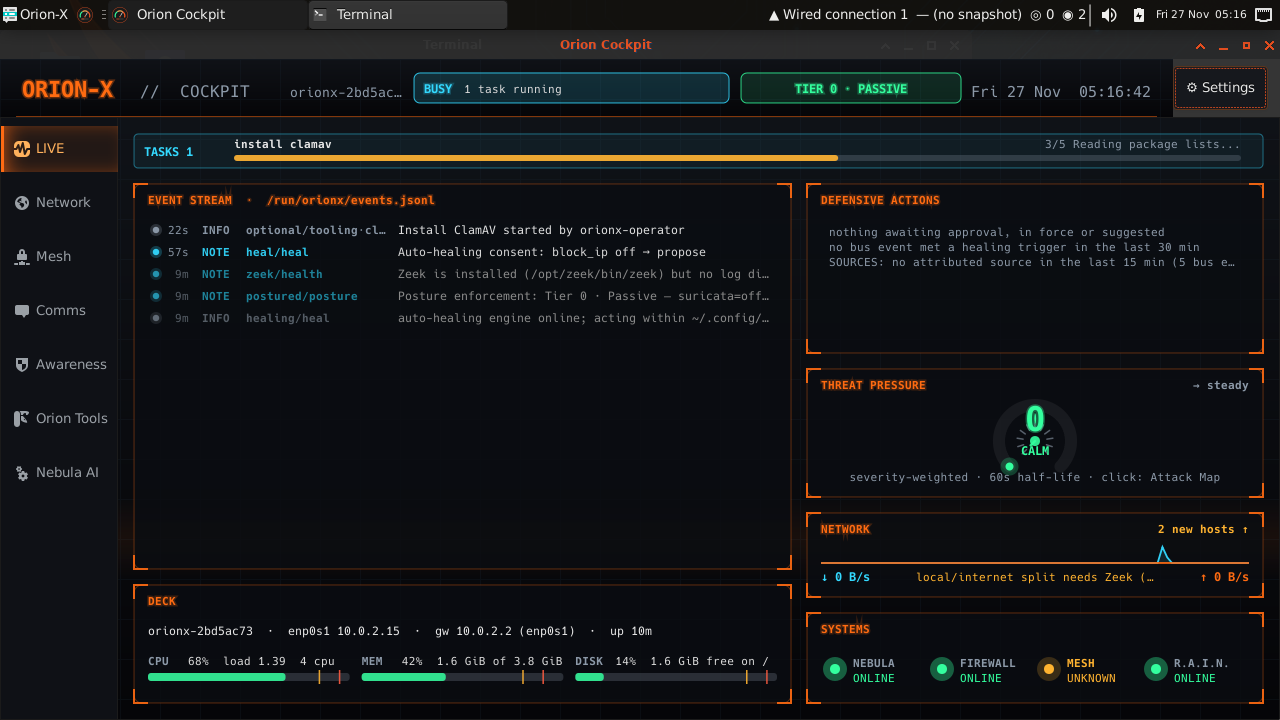
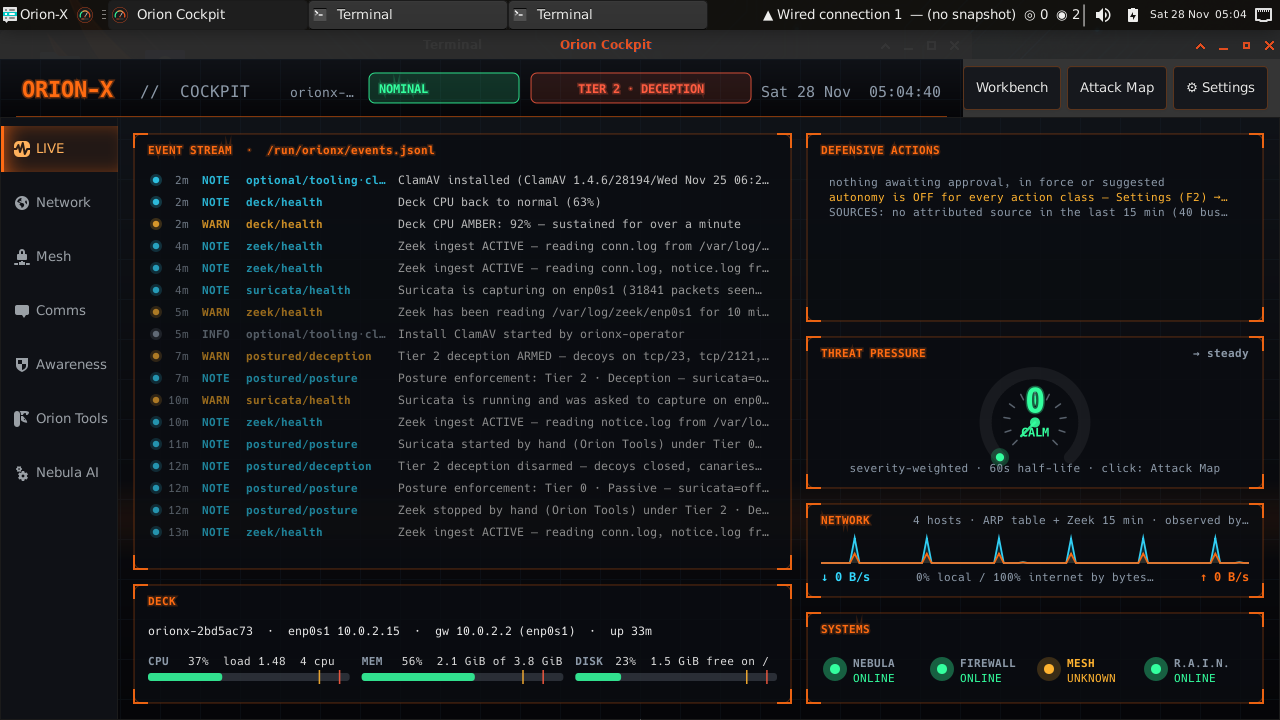
fix(postured,nebula,cockpit): config test in its own capped unit; nebula start survives a slow start; disabled buttons look disabled; new screenshots
Found by booting the release-branch ISO (CI run 46104893241) in QEMU:

- DEC-PHASE13-072, revised: with -l pointed at a writable directory the
  Suricata config test loaded the 3,200 shipped rules, peaked at 124.3 MB
  against orionx-postured's MemoryMax=128M, and the cgroup OOM killer put
  the daemon in a restart loop (10 kills, "Posture enforcement" re-announced
  every ~50 s). The test now runs as `systemd-run --wait --pipe` in a
  transient unit capped at suricata.service's MemoryMax, logging to a
  RuntimeDirectory. Verified in the VM with the patched module: Tier 2 runs
  both sensors, 200 s on a quiet link keeps them, Zeek Stop/Follow tier and
  Suricata Start at Tier 0 work, NRestarts=0, no OOM kill, no rejection.
- `nebula start`: a 120 s systemctl limit raised TimeoutExpired while the
  model integrity check ran (4 min 22 s CPU under QEMU). 300 s now, and a
  timeout is reported as "still starting".
- The page-wide label colour beat button.orionx-tool:disabled for the label
  inside a button, so disabled buttons looked live on every tab. Sensors and
  services now offer only the switch that applies.
- Screenshots retaken on that image: cockpit-live, cockpit-tools, the new
  cockpit-tools-deck, cockpit-settings; captions say exactly which build.

Tests: test_sensor_control.py 23, test_nebula_runtime_timeout.py 2 (new);
pytest 582 passed, 1 skipped; bash unit suites 103/103; GTK checks 142/142;
make lint 0; decision log OK.
[…]

diff --git a/scripts/awareness/suricata_capture.py b/scripts/awareness/suricata_capture.py
@@ -151,6 +151,7 @@ ENGINE_LOG_TAIL = 65536
 ENGINE_BANNER = "This is Suricata version"
 
 SURICATA_BIN = "suricata"
+SURICATA_UNIT_NAME = "suricata.service"
 SURICATASC_BIN = "suricatasc"
 
 # --- Thresholds (justified in the module docstring) -------------------------
@@ -595,36 +596,83 @@ def classify_config_test(returncode: int | None, output: str) -> dict:
     return {"verdict": "invalid", "error": tail[0], "rc": returncode}
 
 
+TEST_RUNTIME_DIR = "orionx-suricata-test"   # under /run, made and removed by systemd
+DEFAULT_TEST_MEMORY_MAX = "768M"            # fallback only; suricata.service's own cap is the authority
+
+
+def engine_memory_max(run=subprocess.run) -> str:
+    """suricata.service's MemoryMax (orionx-memory.conf), so the test is capped like the engine."""
+    try:
+        r = run(["systemctl", "show", SURICATA_UNIT_NAME, "-p", "MemoryMax", "--value"],
+                capture_output=True, text=True, timeout=10, check=False)
+        v = (r.stdout or "").strip()
+        return v if v and v != "infinity" else DEFAULT_TEST_MEMORY_MAX
+    except (OSError, subprocess.SubprocessError):
+        return DEFAULT_TEST_MEMORY_MAX
+
+
+def config_test_argv(binary: str, config: Path, isolate: bool, log_dir: str | None,
+                     memory_max: str = DEFAULT_TEST_MEMORY_MAX) -> list[str]:
+    """The command that runs `suricata -T`. Pure.
+
+    isolate=True (the daemon on a deck): a transient systemd unit, outside
+    orionx-postured's cgroup and mount namespace, capped like the engine.
+    """
+    if isolate:
+        return ["systemd-run", "--quiet", "--wait", "--pipe", "--collect",
+                "-p", f"MemoryMax={memory_max}", "-p", f"RuntimeDirectory={TEST_RUNTIME_DIR}",
+                binary, "-T", "-v", "-c", str(config), "-l", f"/run/{TEST_RUNTIME_DIR}"]
+    return [binary, "-T", "-v", "-c", str(config), "-l", str(log_dir)]
+
+
 def check_config(config: Path = ORIONX_YAML, runner=subprocess.run,
-                binary: str = SURICATA_BIN, log_dir: str | None = None) -> dict:
-    """Run `suricata -T -v -l <private dir>` against a config and classify it.
+                 binary: str = SURICATA_BIN, log_dir: str | None = None,
+                 isolate: bool | None = None) -> dict:
+    """Run `suricata -T -v -l <scratch>` against a config and classify it.
 
     @decision DEC-PHASE13-072
-    @title The config test writes its logs to a private directory
+    @title The config test runs in its own transient unit, capped like the engine
     @status accepted
-    @rationale orionx-postured runs this test inside its own sandbox
-      (ProtectSystem=strict; /var/log is read-only there). Without -l the
-      test inherits default-log-dir /var/log/suricata/ and fails with
-      'The logging directory ... is not writable', so every tier raise
-      published a CRITICAL "Suricata REJECTED its configuration" and held the
-      start back until the 30 s recovery started it anyway (measured on the
-      v3.2.0 image in QEMU, 2026-11-27). The real service runs outside the
-      sandbox and writes /var/log/suricata itself; the test only needs
-      somewhere to write. -l points it at a fresh directory under the
-      daemon's PrivateTmp, removed afterwards.
+    @rationale orionx-postured ran `suricata -T` inside its own sandbox. Two
+      failures, both measured on the v3.2.0 image in QEMU (2026-11-27):
+      (1) /var/log is read-only there, so the test failed with 'The logging
+      directory ... is not writable' and every tier raise published a CRITICAL
+      "Suricata REJECTED its configuration" and held the start back ~30 s;
+      (2) with -l pointed at a writable directory, the test got far enough to
+      load the 3,200 shipped rules, peaked at 124.3 MB (systemd-run's own
+      "Memory peak") against the daemon's MemoryMax=128M, and the kernel's
+      cgroup OOM killer took the daemon down, which then restart-looped. That
+      test had never actually run on a deck; failing at the log directory
+      had hidden it. Raising the daemon's cap would only move the cliff: the
+      full ET-Open feed (orionx-freshen-suricata) needs several times more.
+      So the test runs as `systemd-run --wait --pipe` in a transient unit of
+      its own, capped at suricata.service's MemoryMax (the engine's own
+      authority, orionx-memory.conf) and writing its logs to a RuntimeDirectory
+      systemd creates and removes. orionx-postured already drives systemd
+      over D-Bus to start the engine; this is the same channel. When not root
+      or systemd-run is absent (tests, a checkout), it runs directly with a
+      private scratch directory.
     """
-    own = log_dir is None
+    if isolate is None:
+        isolate = os.geteuid() == 0 and shutil.which("systemd-run") is not None
+    if isolate and shutil.which(binary) is None:
+        # Inside the transient unit a missing engine would read as a rejected
+        # config; say what it is.
+        return {"verdict": "absent", "error": f"{binary} is not installed", "rc": None}
+    own = not isolate and log_dir is None
     if own:
         try:
             log_dir = tempfile.mkdtemp(prefix="orionx-suricata-test-")
         except OSError as exc:
             return {"verdict": "unknown", "error": f"no scratch log dir: {exc}", "rc": None}
+    argv = config_test_argv(binary, config, isolate, log_dir,
+                            engine_memory_max(runner) if isolate else DEFAULT_TEST_MEMORY_MAX)
     try:
         try:
-            res = runner([binary, "-T", "-v", "-c", str(config), "-l", str(log_dir)],
-                         capture_output=True, text=True, timeout=120, check=False)
+            res = runner(argv, capture_output=True, text=True, timeout=180, check=False,
+                         stdin=subprocess.DEVNULL)
         except FileNotFoundError:
-            return {"verdict": "absent", "error": f"{binary} is not installed",
+            return {"verdict": "absent", "error": f"{argv[0]} is not installed",
                     "rc": None}
         except (OSError, subprocess.SubprocessError) as exc:
             return {"verdict": "unknown", "error": str(exc), "rc": None}

diff --git a/tests/unit/test_sensor_control.py b/tests/unit/test_sensor_control.py
@@ -41,11 +41,44 @@ def test_config_test_writes_logs_to_a_private_dir_and_removes_it():
         seen["dir_existed"] = os.path.isdir(argv[argv.index("-l") + 1])
         return R()
 
-    v = capture.check_config(Path("/etc/suricata/orionx.yaml"), runner=runner, binary="suricata")
+    v = capture.check_config(Path("/etc/suricata/orionx.yaml"), runner=runner, binary="suricata", isolate=False)
     assert v["verdict"] == "ok"
     assert seen["argv"][:5] == ["suricata", "-T", "-v", "-c", "/etc/suricata/orionx.yaml"]
     assert "-l" in seen["argv"] and seen["dir_existed"]
     assert not os.path.exists(seen["argv"][seen["argv"].index("-l") + 1]), "scratch log dir left behind"
+
+
+def test_on_a_deck_the_config_test_runs_in_its_own_capped_unit():
+    argv = capture.config_test_argv("suricata", Path("/etc/suricata/orionx.yaml"), True, None, "805306368")
+    assert argv[:5] == ["systemd-run", "--quiet", "--wait", "--pipe", "--collect"]
+    assert "MemoryMax=805306368" in argv and "RuntimeDirectory=orionx-suricata-test" in argv
+    assert argv[-2:] == ["-l", "/run/orionx-suricata-test"], "logs go where the unit can write, not the daemon's /var/log"
+
+
+def test_isolated_test_takes_the_engine_memory_cap_and_reports_its_verdict(monkeypatch):
+    calls = []
+
+    class R:
+        def __init__(self, rc, out):
+            self.returncode, self.stdout, self.stderr = rc, out, ""
+
+    def runner(argv, **_kw):
+        calls.append(argv)
+        if argv[0] == "systemctl":
+            return R(0, "805306368\n")
+        return R(0, "Configuration provided was successfully loaded.")
+
+    monkeypatch.setattr(capture.shutil, "which", lambda name: "/usr/bin/" + name)
+    v = capture.check_config(Path("/etc/suricata/orionx.yaml"), runner=runner, binary="suricata", isolate=True)
+    assert v["verdict"] == "ok"
+    assert calls[0][:3] == ["systemctl", "show", "suricata.service"]
+    assert "MemoryMax=805306368" in calls[1]
+
+
+def test_isolated_test_with_no_engine_is_absent_not_rejected(monkeypatch):
+    monkeypatch.setattr(capture.shutil, "which", lambda name: None)
+    v = capture.check_config(Path("x.yaml"), runner=lambda *a, **k: 1 / 0, binary="suricata", isolate=True)
+    assert v["verdict"] == "absent"
 
 
 def test_config_test_keeps_a_caller_supplied_log_dir(tmp_path):
@@ -54,7 +87,7 @@ def test_config_test_keeps_a_caller_supplied_log_dir(tmp_path):
         stdout = "successfully loaded"
         stderr = ""
 
-    capture.check_config(Path("x.yaml"), runner=lambda argv, **_k: R(), binary="suricata", log_dir=str(tmp_path))
+    capture.check_config(Path("x.yaml"), runner=lambda argv, **_k: R(), binary="suricata", log_dir=str(tmp_path), isolate=False)
     assert tmp_path.is_dir()
 
 

diff --git a/scripts/control_center/sections/ir.py b/scripts/control_center/sections/ir.py
@@ -333,8 +333,13 @@ def build_section() -> Gtk.Widget:
         frame, gb = TL.group("Sensors", f"{sum(1 for n in PD.SENSOR_NAMES if PD.sensor_view(n, d['status'], d['now'], d['overrides'])['word'] == 'RUNNING')} of 2 running")
         for n in PD.SENSOR_NAMES:
             v = PD.sensor_view(n, d["status"], d["now"], d["overrides"])
-            btns = [("Start", lambda n=n: _sensor(n, True), v["start"], f"Run {v['label']} now, whatever the tier"),
-                    ("Stop", lambda n=n: _sensor(n, False), v["stop"], f"Stop {v['label']} now, whatever the tier")]
+            # A switch, not a pair: only the action that applies is offered
+            # (both when the state is UNKNOWN, so the operator is never stuck).
+            btns = []
+            if v["start"]:
+                btns.append(("Start", lambda n=n: _sensor(n, True), True, f"Run {v['label']} now, whatever the tier"))
+            if v["stop"]:
+                btns.append(("Stop", lambda n=n: _sensor(n, False), True, f"Stop {v['label']} now, whatever the tier"))
             if v["follow"]:
                 btns.append(("Follow tier", lambda n=n: _sensor(n, None), True,
                              f"Let the threat-posture tier decide {v['label']} again"))
@@ -346,9 +351,12 @@ def build_section() -> Gtk.Widget:
         for kind, label in (("nebula", "Nebula AI runtime"), ("workbench", "Workbench server")):
             v = service_tile(kind, d)
             start_label = "Open" if kind == "workbench" else "Start"
-            row, _w = TL.tile(label, v["word"], TL.LEVEL_COLOR[v["level"]], v["line"],
-                              [(start_label, lambda k=kind: _service(k, True), v["start"], ""),
-                               ("Stop", lambda k=kind: _service(k, False), v["stop"], "")], tooltip=v["line"])
+            btns = []
+            if v["start"]:
+                btns.append((start_label, lambda k=kind: _service(k, True), True, ""))
+            if v["stop"]:
+                btns.append(("Stop", lambda k=kind: _service(k, False), True, ""))
+            row, _w = TL.tile(label, v["word"], TL.LEVEL_COLOR[v["level"]], v["line"], btns, tooltip=v["line"])
             gb.pack_start(row, False, False, 0)
         svc_flow.add(frame)
         svc_flow.show_all()

diff --git a/scripts/nebula/runtime_ctl.py b/scripts/nebula/runtime_ctl.py
@@ -48,9 +48,21 @@ Runner = Callable[[list[str]], "subprocess.CompletedProcess[str]"]
 Http = Callable[[str, str, "dict[str, Any] | None", float], "dict[str, Any]"]
 
 
+SYSTEMCTL_TIMEOUT = 300   # nebula-runtime first runs the model integrity check (hashes ~2 GB)
+
+
 def run(argv: list[str]) -> "subprocess.CompletedProcess[str]":
-    """Default runner: capture output, never raise on a non-zero exit."""
-    return subprocess.run(argv, capture_output=True, text=True, check=False, timeout=120)
+    """Default runner: capture output, never raise — not on a non-zero exit,
+    and not on a timeout either (rc 124, like timeout(1)).
+
+    Measured on the v3.2.0 image in QEMU: `systemctl start nebula-runtime`
+    waits for nebula-integrity-check, which took over 120 s under emulation,
+    and the old 120 s limit ended `nebula start` in a TimeoutExpired traceback.
+    """
+    try:
+        return subprocess.run(argv, capture_output=True, text=True, check=False, timeout=SYSTEMCTL_TIMEOUT)
+    except subprocess.TimeoutExpired:
+        return subprocess.CompletedProcess(argv, 124, "", f"still waiting after {SYSTEMCTL_TIMEOUT} s")
 
 
 def http_json(method: str, url: str, body: dict[str, Any] | None = None,
@@ -150,6 +162,10 @@ def start(runner: Runner = run, say: Callable[[str], None] = print) -> int:
         say(f"Nebula is already running ({RUNTIME_UNIT}).")
         return 0
     r = runner(["systemctl", "start", RUNTIME_UNIT])
+    if r.returncode == 124:
+        say(f"{RUNTIME_UNIT} is still starting after {SYSTEMCTL_TIMEOUT} s (the model integrity "
+            f"check runs first). Check again with: nebula status, or systemctl status {RUNTIME_UNIT}")
+        return 1
     if r.returncode != 0 or not unit_active(RUNTIME_UNIT, runner):
         detail = (r.stderr or r.stdout or "").strip()
         say(f"FAILED to start {RUNTIME_UNIT}" + (f": {detail}" if detail else "")

diff --git a/tests/unit/test_nebula_runtime_timeout.py b/tests/unit/test_nebula_runtime_timeout.py
@@ -1,0 +1,32 @@
+"""`nebula start` when the runtime takes longer than the systemctl limit.
+
+Measured on the v3.2.0 image in QEMU (2026-11-27): nebula-runtime waits for
+nebula-integrity-check, which hashed the model for over 120 s, and `nebula
+start` died with a TimeoutExpired traceback.
+"""
+import subprocess
+import sys
+from pathlib import Path
+
+sys.path.insert(0, str(Path(__file__).resolve().parents[2] / "scripts"))
+from nebula import runtime_ctl as R  # noqa: E402
+
+
+def test_run_turns_a_timeout_into_rc_124(monkeypatch):
+    def slow(argv, **kw):
+        raise subprocess.TimeoutExpired(argv, kw.get("timeout"))
+    monkeypatch.setattr(R.subprocess, "run", slow)
+    r = R.run(["systemctl", "start", R.RUNTIME_UNIT])
+    assert r.returncode == 124 and "still waiting" in r.stderr
+
+
+def test_start_that_is_still_starting_says_so_without_a_traceback():
+    said = []
+
+    def runner(argv):
+        if argv[1] == "is-active":
+            return subprocess.CompletedProcess(argv, 3, "activating\n", "")
+        return subprocess.CompletedProcess(argv, 124, "", "still waiting after 300 s")
+
+    assert R.start(runner=runner, say=said.append) == 1
+    assert "still starting" in said[-1] and "integrity" in said[-1] and "nebula status" in said[-1]

diff --git a/scripts/control_center/app.py b/scripts/control_center/app.py
@@ -131,6 +131,10 @@ button.orionx-tool:hover {
     box-shadow: 0 0 10px rgba(255,106,19,0.5), inset 0 0 6px rgba(255,106,19,0.15);
 }
 button.orionx-tool:disabled { color: #5b6470; border-color: rgba(140,153,168,0.18); background: rgba(14,16,20,0.80); }
+/* The page-wide label colour (.orionx-page label) out-ranked the line above for
+   the label INSIDE a button, so a disabled button looked live on every tab
+   (seen on the v3.2.0 image: Zeek's disabled Uninstall). */
+.orionx-page button.orionx-tool:disabled label { color: #5b6470; }
 /* --- optional tools: the live installer log (#199) --- */
 textview.orionx-log, textview.orionx-log text { background-color: #07090c; color: #9fb0c0; }
 /* --- toasts --- */

diff --git a/MASTER_PLAN.md b/MASTER_PLAN.md
@@ -5128,7 +5128,7 @@ decision, edit the block, then regenerate; never edit a generated row.
 | DEC-PHASE13-069 | 2026-11-26 | [ISO] Idle RAM is read once the desktop has finished starting and RAM has stopped growing In-guest performance measurement via serial-console sentinels (W7-5) (status: accepted accepted) | The fixed 20 s settle after xfce4-session appeared read RAM at a moment set by the runner's speed. On 2026-11-27 the same code measured 731 MB (#216: sampled ~64 s after the session started; the panel's plugin processes, wrapper-2.0, not yet running; nm-applet 32 MB, xfdesktop 34 MB) and 1,084 / 1,145 MB (#215 / #217: ~105 / ~218 s after; two wrapper-2.0 at ~100-110 MB each, nm-applet 117-153 MB, xfdesktop 123-131 MB). Those three account for the ~350 MB AnonPages difference (424 vs 768-800 MB). The low readings were of a half-started desktop, so the earlier passes were false. The probe now waits for the processes an idle desktop runs (DESKTOP_PROCS) and then for two readings STABLE_STEP apart to agree within STABLE_KB, and reports both conditions; the host test refuses to judge a reading taken without them. With an honest reading the budget was raised to 1.25 GiB (owner decision, 2026-11-27; host test holds it; bringing it back under 1 GiB is #218). Boot time, idle RAM, and ISO size are the three acceptance criteria for Phase 7's performance goal. boot_time_seconds uses systemd-analyze (canonical source — it measures kernel+userspace time from the kernel's own timestamps, not host wall-clock, so QEMU firmware overhead is excluded). idle_ram_bytes uses /proc/meminfo MemAvailable (kernel-reported available RAM, the correct "idle RAM consumption" signal — MemTotal minus MemAvailable = RAM consumed by the OS at rest). iso_size_bytes is measured host-side (the ISO file is on the host filesystem, not visible inside the guest). Serial console reuse follows DEC-PHASE7-035 — same channel, same host harness, no new side-channels. Per-assertion timeout wraps prevent any single stall from hanging the overall measurement block past the service's WatchdogSec or the host's QEMU timeout. Amended 2026-11-26 by DEC-PHASE13-067: systemd-analyze never answered from inside the boot transaction, so boot time is now the desktop session's start (user@UID.service), with multi-user.target reported alongside; the thresholds moved to the host-side test alone. |
 | DEC-PHASE13-070 | 2026-11-27 | [NEBULA] `nebula stop` unloads the model, then stops the runtime with plain systemctl | Owner request from the v3.2.0 deck test: "allow it to be stopped with 'nebula stop'". The CLI had no way to give the model's RAM back; the only path was `sudo systemctl stop nebula-runtime.service`, which the operator has to know. Two steps, in this order: 1. Unload every loaded model through the loopback API (GET /api/ps, then POST /api/generate with keep_alive 0 per model). This frees the model's RAM even if step 2 is refused, and it lets ollama release the model cleanly rather than having it killed mid-load. 2. `systemctl stop nebula-warmup.service nebula-runtime.service`. Plain systemctl, deliberately no sudo or pkexec in the CLI: systemd asks polkit itself (org.freedesktop.systemd1.manage-units), with a terminal agent when there is a TTY, so the CLI adds no privilege path of its own. nebula-warmup is stopped too because it is RemainAfterExit and Requires= the runtime; leaving it "active" would claim a warm model that is gone. Nothing restarts the runtime behind the operator's back: no healing rule watches nebula-runtime.service (scripts/healing), and Restart=on-failure does not fire on a clean stop. `nebula start` starts the runtime only; the warm-up stays opt-in (`nebula warmup`, DEC-PHASE10-010). Stdlib only and every effect injectable, so tests/unit/test_nebula_runtime_ctl.sh runs without ollama or systemd (DEC-PHASE10-008's lazy-import rule: the dispatcher imports this module only for these two subcommands). |
 | DEC-PHASE13-071 | 2026-11-27 | [DETECTION] An interface the kernel reports UP is captured whether or not it is busy | Narrows DEC-PHASE12-038's liveness rule. Capture used to need >= 5 packets in 30 s. On the deck at Tier 2 neither sensor ran, and on the v3.2.0 image in QEMU (2026-11-27) a running Suricata was stopped the moment its link went quiet and restarted when traffic came back: the sensor was absent exactly when the first packets of a scan would arrive. The empty-interface failure that rule guards against (Suricata exits 1 with no af-packet entry) does not apply to an UP interface, which af-packet opens fine whether or not it is busy. So operstate "up" joins the selected set immediately and stays while it is up; the packet rate still decides for interfaces without a meaningful operstate (WireGuard, tun: "unknown") and still ranks interfaces when the cap bites, live ones first. A vanished interface is still dropped at once (one unopenable device fails the whole engine). """ return {n for n in list_interfaces(root) if is_up(n, root)} |
-| DEC-PHASE13-072 | 2026-11-27 | [DETECTION] The config test writes its logs to a private directory | orionx-postured runs this test inside its own sandbox (ProtectSystem=strict; /var/log is read-only there). Without -l the test inherits default-log-dir /var/log/suricata/ and fails with 'The logging directory ... is not writable', so every tier raise published a CRITICAL "Suricata REJECTED its configuration" and held the start back until the 30 s recovery started it anyway (measured on the v3.2.0 image in QEMU, 2026-11-27). The real service runs outside the sandbox and writes /var/log/suricata itself; the test only needs somewhere to write. -l points it at a fresh directory under the daemon's PrivateTmp, removed afterwards. """ own = log_dir is None if own: try: log_dir = tempfile.mkdtemp(prefix="orionx-suricata-test-") except OSError as exc: return {"verdict": "unknown", "error": f"no scratch log dir: {exc}", "rc": None} try: try: res = runner([binary, "-T", "-v", "-c", str(config), "-l", str(log_dir)], capture_output=True, text=True, timeout=120, check=False) except FileNotFoundError: return {"verdict": "absent", "error": f"{binary} is not installed", "rc": None} except (OSError, subprocess.SubprocessError) as exc: return {"verdict": "unknown", "error": str(exc), "rc": None} return classify_config_test(res.returncode, (res.stdout or "") + (res.stderr or "")) finally: if own: shutil.rmtree(str(log_dir), ignore_errors=True) |
+| DEC-PHASE13-072 | 2026-11-27 | [DETECTION] The config test runs in its own transient unit, capped like the engine | orionx-postured ran `suricata -T` inside its own sandbox. Two failures, both measured on the v3.2.0 image in QEMU (2026-11-27): (1) /var/log is read-only there, so the test failed with 'The logging directory ... is not writable' and every tier raise published a CRITICAL "Suricata REJECTED its configuration" and held the start back ~30 s; (2) with -l pointed at a writable directory, the test got far enough to load the 3,200 shipped rules, peaked at 124.3 MB (systemd-run's own "Memory peak") against the daemon's MemoryMax=128M, and the kernel's cgroup OOM killer took the daemon down, which then restart-looped. That test had never actually run on a deck; failing at the log directory had hidden it. Raising the daemon's cap would only move the cliff: the full ET-Open feed (orionx-freshen-suricata) needs several times more. So the test runs as `systemd-run --wait --pipe` in a transient unit of its own, capped at suricata.service's MemoryMax (the engine's own authority, orionx-memory.conf) and writing its logs to a RuntimeDirectory systemd creates and removes. orionx-postured already drives systemd over D-Bus to start the engine; this is the same channel. When not root or systemd-run is absent (tests, a checkout), it runs directly with a private scratch directory. """ if isolate is None: isolate = os.geteuid() == 0 and shutil.which("systemd-run") is not None if isolate and shutil.which(binary) is None: # Inside the transient unit a missing engine would read as a rejected # config; say what it is. return {"verdict": "absent", "error": f"{binary} is not installed", "rc": None} own = not isolate and log_dir is None if own: try: log_dir = tempfile.mkdtemp(prefix="orionx-suricata-test-") except OSError as exc: return {"verdict": "unknown", "error": f"no scratch log dir: {exc}", "rc": None} argv = config_test_argv(binary, config, isolate, log_dir, engine_memory_max(runner) if isolate else DEFAULT_TEST_MEMORY_MAX) try: try: res = runner(argv, capture_output=True, text=True, timeout=180, check=False, stdin=subprocess.DEVNULL) except FileNotFoundError: return {"verdict": "absent", "error": f"{argv[0]} is not installed", "rc": None} except (OSError, subprocess.SubprocessError) as exc: return {"verdict": "unknown", "error": str(exc), "rc": None} return classify_config_test(res.returncode, (res.stdout or "") + (res.stderr or "")) finally: if own: shutil.rmtree(str(log_dir), ignore_errors=True) |
 | DEC-PHASE13-073 | 2026-11-27 | [DETECTION] Manual sensor start/stop is an override the posture daemon applies | John (2026-11-27): Zeek and Suricata need start/stop buttons in Orion Tools. Starting them with systemctl from the Cockpit would make a second authority: this daemon reasserts its plan every 30 s and would stop a sensor the operator started (or restart one they stopped). So the buttons write a request, ~/.config/orionx/sensors, and this daemon folds it into tier_plan(): an override wins over the tier for that one sensor, everything else (gate file, interface set, recovery budget, verification) is unchanged. A deliberate tier change clears the file (posture_data.request_tier), so "Tier 2" always starts from what Tier 2 means. Format: one `name=on\|off` per line; anything else is ignored, and an unreadable or untrusted file means no overrides — the tier decides, as it did before this existed. """ out: dict[str, bool] = {} for line in (text or "").splitlines(): name, sep, val = line.strip().partition("=") name, val = name.strip(), val.strip().lower() if sep and name in SENSOR_NAMES and val in ("on", "off"): out[name] = val == "on" return out |
 | DEC-PHASE13-074 | 2026-11-27 | [COCKPIT] Every list on Orion Tools is the same tile: status light, name, status word, one detail line, and the buttons that change that status | John (2026-11-27): Guided actions and On this deck should look like Optional tools, and every tool should show a status and the switches that apply to it (install/uninstall and/or start/stop). The optional-tools tile was the one design already proven on the deck (#199), so it moved here and every group on the tab is drawn by these three functions; a second copy of the tile in another section would drift from the first the next time either changed. Words and colours stay with each section's pure view helper (optional_view, posture_data.sensor_view, tools_data); this module only draws. |
 | DEC-PHASE13-075 | 2026-11-27 | [COCKPIT] A service stopped on purpose is shown STOPPED, not DOWN | With `nebula stop` and the Orion Tools start/stop switches (DEC-PHASE13-070/073), stopping Nebula is an operator action. LIVE and Awareness drew it red "DOWN", the same as a crash, which teaches the operator to ignore red. systemd already tells the two apart: a clean stop leaves the unit "inactive", a crash leaves it "failed". Only "failed" (or anything else unexpected) is red. """ if state == "active": return True return "stopped" if state == "inactive" else False |

diff --git a/docs/User_Guide.md b/docs/User_Guide.md
@@ -436,7 +436,7 @@ What used to be the separate Control Center window now lives inside the Orion Co
 
 ![Cockpit Settings drawer](images/cockpit-settings.png)
 
-*Figure: the Settings drawer (F2) over the Orion Tools tab: threat posture (Tier 0 confirmed as enforced by `orionx-postured`) and the Engine group, with `block_ip` just set to *propose*. Nebula warm-up and the R.A.I.N., Display and DJ deck groups are further down the drawer. From the v3.2.0 development image (CI run 45936482841, the tree now on `develop` at `e33ccbd`) booted in QEMU at 1280×720, 2026-11-27.*
+*Figure: the Settings drawer (F2) over the Orion Tools tab: threat posture confirmed as **Tier 2 · Deception enforced by orionx-postured — deception armed**, and the Engine group with every action class off. Behind it, the Guided actions and On this deck groups. The header carries the Workbench and Attack Map buttons beside Settings. From the v3.2.0 release-branch image (CI run 46104893241) booted in QEMU at 1280×720, 2026-11-28, with the four files fixed after that build (`suricata_capture.py`, `sections/ir.py`, `app.py`, `nebula/runtime_ctl.py`) copied in; the release ISO is built with them.*
 
 A button at the top of the drawer opens the Workbench; its **Engine** cards show the same levels read-only. Optional tools are installed and removed on the **Orion Tools** tab (§15).
 
@@ -775,7 +775,7 @@ The Orion Cockpit (`orionx-cockpit`; also the desktop icon, the panel's gauge ic
 
 ![Orion Cockpit LIVE tab](images/cockpit-live.png)
 
-*Figure: LIVE while ClamAV installs: the verdict reads **BUSY · 1 task running**, the TASKS strip shows step 3 of 5, and the stream holds the install's start and the consent change made a minute earlier (`block_ip` off → propose). Real events, no demo feed; THREAT PRESSURE is calm because nothing attacked the VM. From the v3.2.0 development image (CI run 45936482841, the tree now on `develop` at `e33ccbd`) booted in QEMU at 1280×720, 2026-11-27.*
+*Figure: LIVE a minute after a ClamAV install finished, at Tier 2. The stream shows what this release changed, from real events: Suricata capturing on enp0s1 (confirmed by asking the engine), Zeek ingest active, Zeek stopped and Suricata started by hand from Orion Tools, the CPU alarm and its recovery, and ClamAV installed. SYSTEMS shows NEBULA online; THREAT PRESSURE is calm because nothing attacked the VM. From the v3.2.0 release-branch image (CI run 46104893241) booted in QEMU at 1280×720, 2026-11-28, with the four files fixed after that build (`suricata_capture.py`, `sections/ir.py`, `app.py`, `nebula/runtime_ctl.py`) copied in; the release ISO is built with them.*
 
 Keys: **F11** toggles fullscreen on any tab. The other keys act on the **LIVE** tab only (on the other tabs they go to the controls, so typing in a text field is safe): **Esc** closes an open drill-down, and quits when none is open; **q** quits; **s** and **t** squelch or tune the event in an open drill-down (below); **Page Up** scrolls the stream back. Flags: `--fullscreen` starts fullscreen; `--demo` feeds synthetic events for a demonstration; `--tab NAME` opens on a tab (`live`, `network`, `mesh`, `comms`, `awareness`, `tools`, `nebula`); `--settings` opens with the Settings drawer out; `--tab tools --focus ID` selects one optional tool.
 
@@ -1779,7 +1779,11 @@ while it runs. Uninstall asks first and says how much it will remove. `orionx-co
 
 ![Orion Tools tab](images/cockpit-tools.png)
 
-*Figure: the Orion Tools tab during a real ClamAV install (`--tab tools --focus clamav`): tiles grouped by purpose with their state, and on the right step 3 of 5 with the installer's live output and its log. The grey line under "network online" in this build promised a polkit password prompt; it was corrected for the release, because on the live account none appears (above). From the v3.2.0 development image (CI run 45936482841, the tree now on `develop` at `e33ccbd`) booted in QEMU at 1280×720, 2026-11-27.*
+*Figure: the top of Orion Tools at Tier 2: Sensors (Suricata and Zeek RUNNING on enp0s1 *by Tier 2 · Deception*, each with the one switch that applies), Services (the Nebula runtime RUNNING, the Workbench server STOPPED with Open), then the optional tools with ClamAV just installed and ACTIVE in the panel on the right. Zeek's Uninstall is greyed because it ships with the image. From the v3.2.0 release-branch image (CI run 46104893241) booted in QEMU at 1280×720, 2026-11-28, with the four files fixed after that build (`suricata_capture.py`, `sections/ir.py`, `app.py`, `nebula/runtime_ctl.py`) copied in; the release ISO is built with them.*
+
+![Orion Tools: guided actions and on this deck](images/cockpit-tools-deck.png)
+
+*Figure: further down the same tab: Guided actions (5 of 5 ready, each with Run; Download Samples says it will download because the deck is online) and On this deck, the Workbench catalogue checked against the deck, here its Workbench pages group with Open. A tool missing from the deck would be listed as MISSING with its button disabled. From the v3.2.0 release-branch image (CI run 46104893241) booted in QEMU at 1280×720, 2026-11-28, with the four files fixed after that build (`suricata_capture.py`, `sections/ir.py`, `app.py`, `nebula/runtime_ctl.py`) copied in; the release ISO is built with them.*
 
 The Orion Workbench's **Optional** section shows the same state, grouped the
 same way, read-only: the web page never installs anything (a page on 127.0.0.1

diff --git a/CHANGELOG.md b/CHANGELOG.md
@@ -181,8 +181,24 @@ on the 2 GB deck with the Nebula model loaded is unmeasured (#218).
   engine, inside its own sandbox, where `/var/log/suricata` is read-only. The
   test failed with "The logging directory ... is not writable", the daemon
   published a CRITICAL saying the IDS could not start, and held the start
-  back until its 30-second recovery started it anyway. The test now writes
-  its logs to a private scratch directory. Found in QEMU on the v3.2.0 image.
+  back until its 30-second recovery started it anyway. Pointing the test at
+  a writable directory then exposed a second fault that the first had hidden:
+  loading the 3,200 shipped rules peaks at 124.3 MB, the daemon's cap is
+  128 MB, and the kernel's out-of-memory killer took the daemon down in a
+  restart loop. The test now runs in a transient systemd unit of its own
+  (`systemd-run --wait --pipe`), capped at `suricata.service`'s own
+  MemoryMax and writing its logs to a directory systemd creates and removes.
+  Both found in QEMU on the v3.2.0 image; verified there afterwards: no
+  rejection, no restarts, Suricata confirmed capturing.
+- **`nebula start` ended in a traceback when the runtime was slow to come
+  up.** The runtime first runs the model integrity check (4 min 22 s of CPU
+  under QEMU); the 120-second limit on `systemctl start` raised
+  `TimeoutExpired`. The limit is now 300 s and a timeout is reported as
+  "still starting", with where to look.
+- **Disabled buttons looked enabled on every Cockpit tab.** The page-wide
+  label colour out-ranked the disabled style for the label inside a button,
+  so, for example, Zeek's Uninstall (it ships with the image) looked
+  clickable. Seen in the v3.2.0 screenshots.
 - **A Nebula runtime stopped on purpose showed as DOWN (DEC-PHASE13-075).**
   LIVE's SYSTEMS panel and the Awareness tab drew any stopped runtime red,
   the same as a crash. A clean stop (systemd's `inactive`, e.g. after
@@ -300,8 +316,9 @@ on the 2 GB deck with the Nebula model loaded is unmeasured (#218).
   listed a `healing` tab that does not exist. `docs/qemu-boot-test.md`: what
   the in-guest gates check and their limits; the in-guest steps are no longer
   `continue-on-error`. New screenshots from the development image in QEMU:
-  the desktop, the login screen, and the Cockpit's LIVE tab, Orion Tools tab
-  and Settings drawer during a real install.
+  the desktop and the login screen; the Cockpit's LIVE tab, Orion Tools tab
+  (top, and its Guided actions and On this deck groups) and Settings drawer
+  were retaken on the release-branch image after the deck-test fixes.
 
 ---
 

diff --git a/README.md b/README.md
@@ -50,11 +50,11 @@ a block. The QEMU job's in-guest checks had delivered no result for weeks;
 they run again as gates and now check the desktop session too. See the
 [changelog](CHANGELOG.md) for the full list.
 
-| LIVE, while an optional tool installs | Orion Tools, the same install |
+| LIVE at Tier 2, after an optional tool installed | Orion Tools: sensors, services, optional tools |
 |---|---|
-| [![Orion Cockpit LIVE tab during an install](docs/images/cockpit-live.png)](docs/images/cockpit-live.png) | [![Orion Tools tab during an install](docs/images/cockpit-tools.png)](docs/images/cockpit-tools.png) |
+| [![Orion Cockpit LIVE tab at Tier 2](docs/images/cockpit-live.png)](docs/images/cockpit-live.png) | [![Orion Tools tab with sensor and service switches](docs/images/cockpit-tools.png)](docs/images/cockpit-tools.png) |
 
-*The v3.2.0 development image in QEMU (2026-11-27): real events, no demo feed. More in the [User Guide](docs/User_Guide.md#orion-cockpit).*
+*The v3.2.0 release-branch image in QEMU (2026-11-28): real events, no demo feed. More in the [User Guide](docs/User_Guide.md#orion-cockpit).*
 
 Earlier, v3.1.0 gave every Cockpit tab the LIVE look and the status strip, filled out the
 Network tab (interfaces, protocol traffic, NetworkManager WireGuard VPNs,
